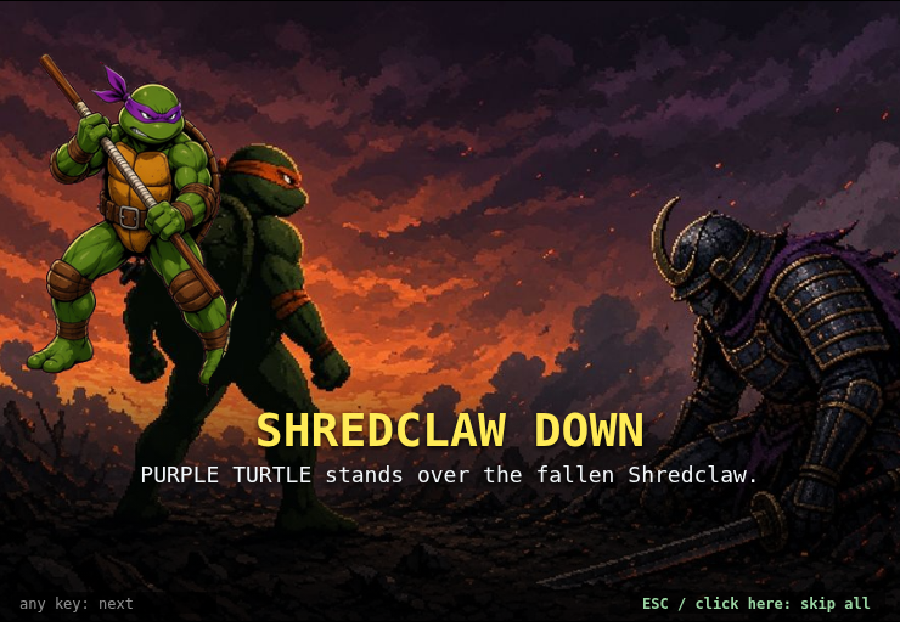
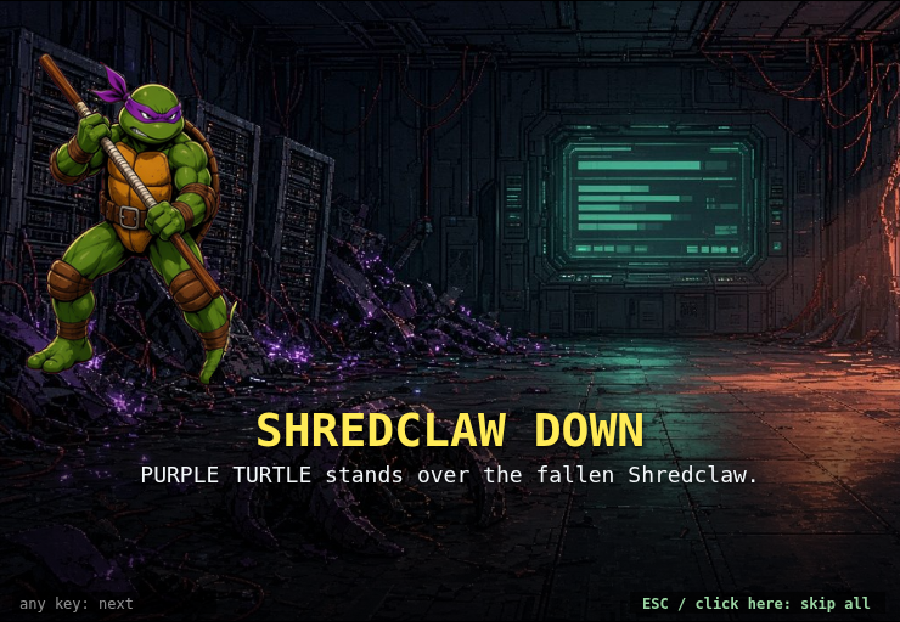
Story v3: ship the six character-free backdrops, tune portrait sides
- assets/cine/v3: bg_meeting/briefing/teamup/boss_enter/boss_defeat/ending (1280x720, q82)
- V3_READY now covers every panel
- briefing: portraits left, camera drifts toward the tower hologram
- boss defeat / ending: narration keeps the chosen hero on stage (heroPortrait), clear of the lobster
- TURTLES row: other portraits step back while the four are up
- evidence/story-v3 re-shot (0 console errors, 0 404s), NOTES.md updated

diff --git a/cinematics.js b/cinematics.js
@@ -26,7 +26,7 @@ export function createCinematics(audio) {
   // A panel switches to its v3 backdrop once that JPG is in assets/cine/v3/ and its key is in
   // V3_READY (no build step, and no request for a file that is not shipped, so nothing 404s).
   const V3 = { intro0: 'bg_donnie_lair.jpg', intro1: 'bg_meeting.jpg', intro2: 'bg_briefing.jpg', intro3: 'bg_teamup.jpg', bossEnter: 'bg_boss_enter.jpg', bossDefeat: 'bg_boss_defeat.jpg', ending: 'bg_ending.jpg' };
-  const V3_READY = new Set(['intro0']);
+  const V3_READY = new Set(['intro0', 'intro1', 'intro2', 'intro3', 'bossEnter', 'bossDefeat', 'ending']);
   const src = {
     intro: 'assets/cine/intro.jpg', // legacy single panel, kept as a fallback
     intro0: 'assets/cine/intro_1_meeting.jpg', // Donatello's lair (v3): the CRT shows the live Discord feed
@@ -91,9 +91,9 @@ export function createCinematics(audio) {
       from: [0.42, 0.45], to: [0.56, 0.52], zoom: [1.04, 1.14], shake: 0.02
     },
     intro_2: {
-      typeRate: 46, img: 'intro2', fallback: 'intro', sound: 'blip', accent: 'riser', music: 'intro', duration: 6.6,
+      typeRate: 46, img: 'intro2', fallback: 'intro', portraitSide: 'left', // the tower hologram owns the right half sound: 'blip', accent: 'riser', music: 'intro', duration: 6.6,
       title: 'THE BRIEFING', lines: ['NOUS GIRL: His root gateway sits on top of Claw Tower.', 'TURBOFIT: We run hermes claw migrate there. Locally!', 'LEONARDO: Open weights, closed claws. I follow half of this.'],
-      from: [0.54, 0.42], to: [0.46, 0.48], zoom: [1.14, 1.04], shake: 0
+      from: [0.64, 0.40], to: [0.68, 0.46], zoom: [1.03, 1.09], shake: 0
     },
     // baba_booey (t_9ec48322f6de4bf7): the 8th hero crashes the briefing. Lines stack, so each stays up well past
     // 2.5 s + 50 ms per character; the tail linger gives the pause after the last one.
@@ -115,12 +115,12 @@ export function createCinematics(audio) {
       from: [0.50, 0.40], to: [0.50, 0.48], zoom: [1.02, 1.16], shake: 0.08
     },
     bossDefeat: {
-      img: 'bossDefeat', sound: 'over', accent: 'impact', music: 'defeat', duration: 3.8,
+      img: 'bossDefeat', heroPortrait: true, sound: 'over', accent: 'impact', music: 'defeat', duration: 3.8,
       title: 'SHREDCLAW DOWN', lines: ['{HERO} stands over the fallen Shredclaw.', 'Root gateway open. Running: hermes claw migrate...', 'Memories, skills, SOUL.md: every claw comes home.'],
       from: [0.52, 0.50], to: [0.44, 0.46], zoom: [1.02, 1.12], shake: 0
     },
     ending: {
-      img: 'ending', sound: 'wave', accent: 'chime', music: 'ending', duration: 5.8,
+      img: 'ending', heroPortrait: true, portraitSide: 'left', sound: 'wave', // the friendly lobster sits on the right accent: 'chime', music: 'ending', duration: 5.8,
       title: 'THE LAST SLICE', lines: ['Sunrise. The claws molt back into friendly helpers.', 'Even Shredclaw: new shell, much nicer lobster.', 'Press SPACE to start a new run.'],
       from: [0.58, 0.48], to: [0.44, 0.42], zoom: [1.02, 1.12], shake: 0
     }
@@ -267,7 +267,7 @@ export function createCinematics(audio) {
     if (!state.active) return;
     syncTyped();
     // story v3: who is speaking right now (the last line on screen) drives the portraits.
-    { const n = curLine(); stepPortraits(s, n >= 0 ? s.raw[n] : null, state.hero, state.t, { side: s.portraitSide, skip: s.portraitSkip }); }
+    { const n = curLine(); stepPortraits(s, n >= 0 ? s.raw[n] : null, state.hero, state.t, { side: s.portraitSide, skip: s.portraitSkip, hero: s.heroPortrait }); }
     state.countdown = Math.max(0, s.duration - state.t);
     // Typewriter ticks: one blip every couple of revealed characters.
     const typedNow = Math.floor(state.typed);

diff --git a/cine-v3.js b/cine-v3.js
@@ -66,7 +66,9 @@ function sprite(k, dim) {
 // slots.left / slots.right = { key, t } (t = panel time it arrived); out = list of fading leavers.
 export function stepPortraits(s, raw, heroName, t, opts) {
   const p = s._pt || (s._pt = { slots: { left: null, right: null }, out: [], active: null, cur: undefined, last: null, groupT: -1 });
-  const key = raw == null ? undefined : speakerOf(raw, heroName);
+  let key = raw == null ? undefined : speakerOf(raw, heroName);
+  // opts.hero: a narration line in this panel keeps the chosen hero on stage (boss defeat, ending)
+  if (key === null && opts.hero) key = speakerOf('{HERO}', heroName);
   if (key === p.cur) return p;
   p.cur = key;
   if (key === 'TURTLES') { p.active = null; p.groupT = t; return p; }
@@ -108,7 +110,8 @@ export function drawPortraits(ctx, W, H, s, t, floorY, motion) {
   for (const side of ['left', 'right']) {
     const sl = p.slots[side]; if (!sl) continue;
     const a = ease((t - sl.t) / 0.28), on = p.active === side;
-    one(sl.key, side, a * (on ? 1 : 0.85), 1 - a, !on);
+    const back = p.groupT >= 0 ? 1 - 0.7 * ease((t - p.groupT) / 0.3) : 1;   // step back for the TURTLES row
+    one(sl.key, side, a * (on ? 1 : 0.85) * back, 1 - a, !on);
   }
   if (p.groupT >= 0) {   // TURTLES: all four, small, in a row
     const a = ease((t - p.groupT) / 0.3), keys = GROUP.filter(ready);

diff --git a/evidence/story-v3/NOTES.md b/evidence/story-v3/NOTES.md
@@ -24,15 +24,25 @@ Result: console errors **0**, HTTP 404s **0** (index.html gets a `data:` favicon
 | bossDefeat.png / bossDefeat_teknium.png | `{HERO}` portrait left |
 | ending.png | narration only: no portraits |
 
-## Not done / known gaps
-- **Six backdrops were never on disk**: `bg_meeting`, `bg_briefing`, `bg_teamup`, `bg_boss_enter`,
-  `bg_boss_defeat`, `bg_ending` (the source dir `/home/box/agent-data/agents/18e257ae-.../assets/`
-  stayed empty through ~15 min of retries). Those panels still use the OLD art, which has the
-  characters painted in, so the portraits double up there for now. Only `bg_donnie_lair` shipped.
-  To finish: compress each JPG to `assets/cine/v3/<name>.jpg` (1280 wide, q82) and add its key
-  (`intro1`, `intro2`, `intro3`, `bossEnter`, `bossDefeat`, `ending`) to `V3_READY` in cinematics.js.
+## Backdrops
+All seven v3 backdrops are now live (`V3_READY` lists every panel). The six late ones came as 1024x576
+originals (`/workspace/uploads/story-bg/`) and were upscaled to 1280x720 (Lanczos, JPEG q82, ~160-210 KB).
+None of them has a character painted in, so the portraits no longer double up.
+
+Where portraits go:
+- ORIGIN (lair): everyone stands on the right, so the CRT on the left stays visible.
+- MEETING (rainy street): conversation flips left/right around the steaming manhole in the centre.
+- BRIEFING (war room): everyone stands on the left, and the camera drifts toward the tower hologram on the right.
+- TEAM UP (rooftop): Teknium on the left, the hero on the right. On the TURTLES line, the four
+  stand in a row and the other portraits step back (fade).
+- BOSS ENTER: Shredclaw on the right, beside the throne.
+- BOSS DEFEAT / ENDING: narration panels keep the chosen hero on stage (`heroPortrait`), on the left,
+  clear of the friendly robot lobster on the right of the ending.
+
+## Known gaps
 - Hero names come from heroes.js ("PURPLE TURTLE"), so `{HERO}` lines read e.g. "PURPLE TURTLE
   leads the charge..."; over-wide lines now shrink to fit.
+- The backdrops are upscaled from 1024 wide, so they are a little soft at full size.
 
 ## Code
 - `cine-v3.js` (new): portrait table, `SPEAKER:` parsing, left/right slots with slide/fade-in and
